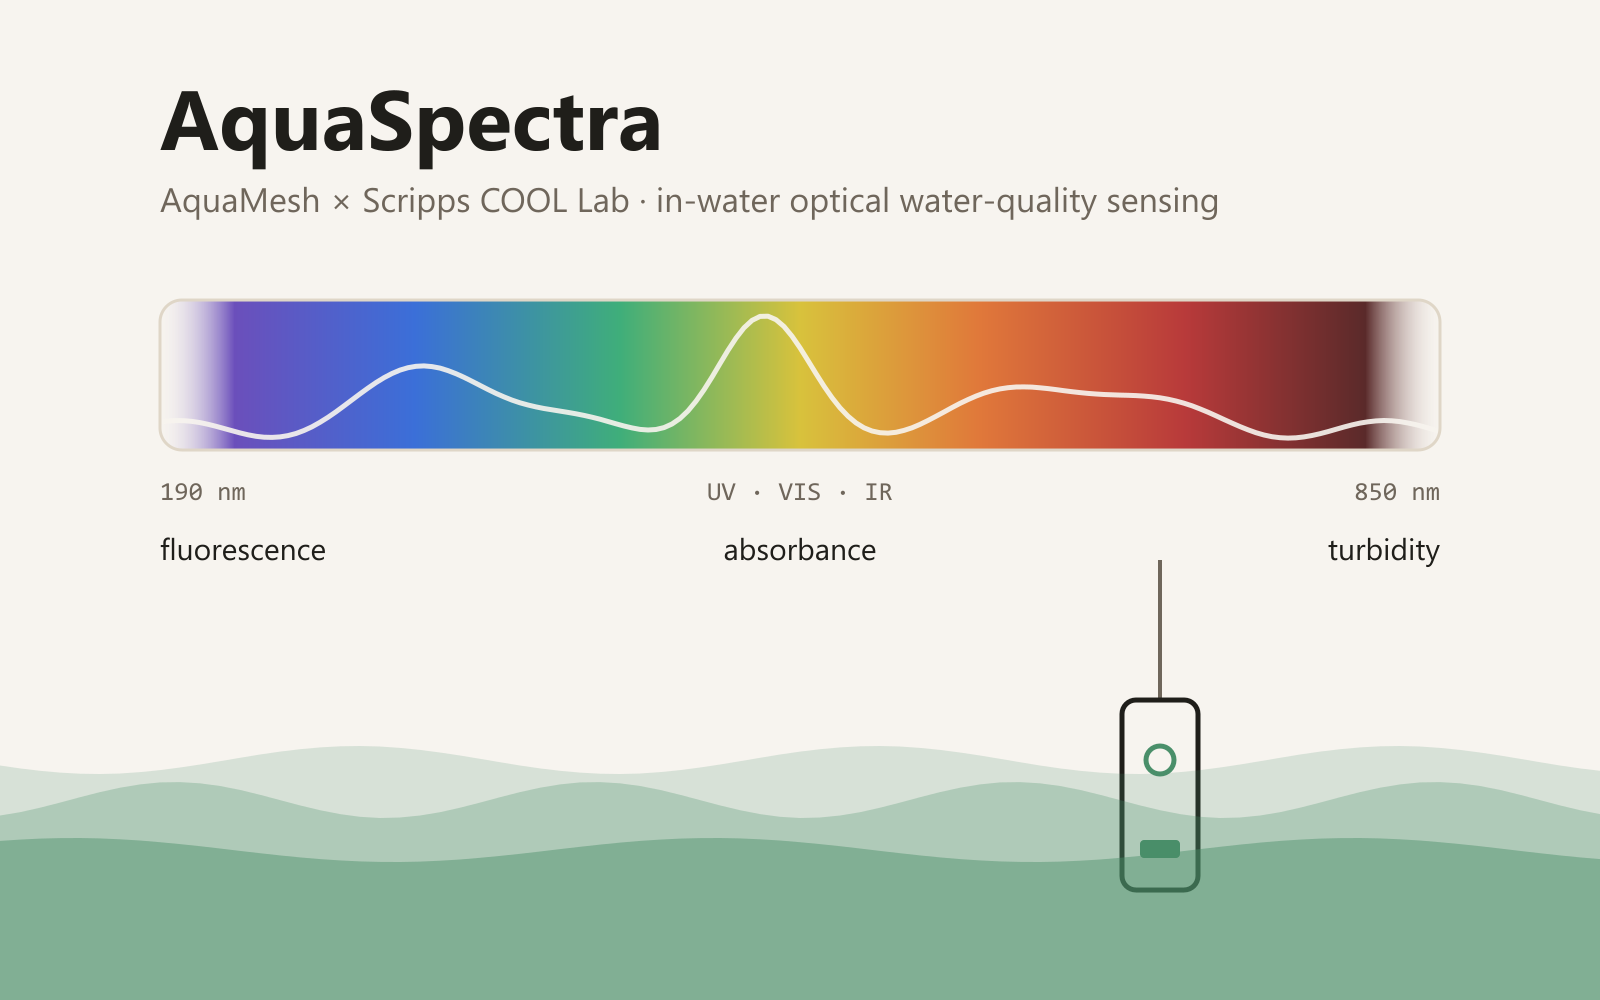
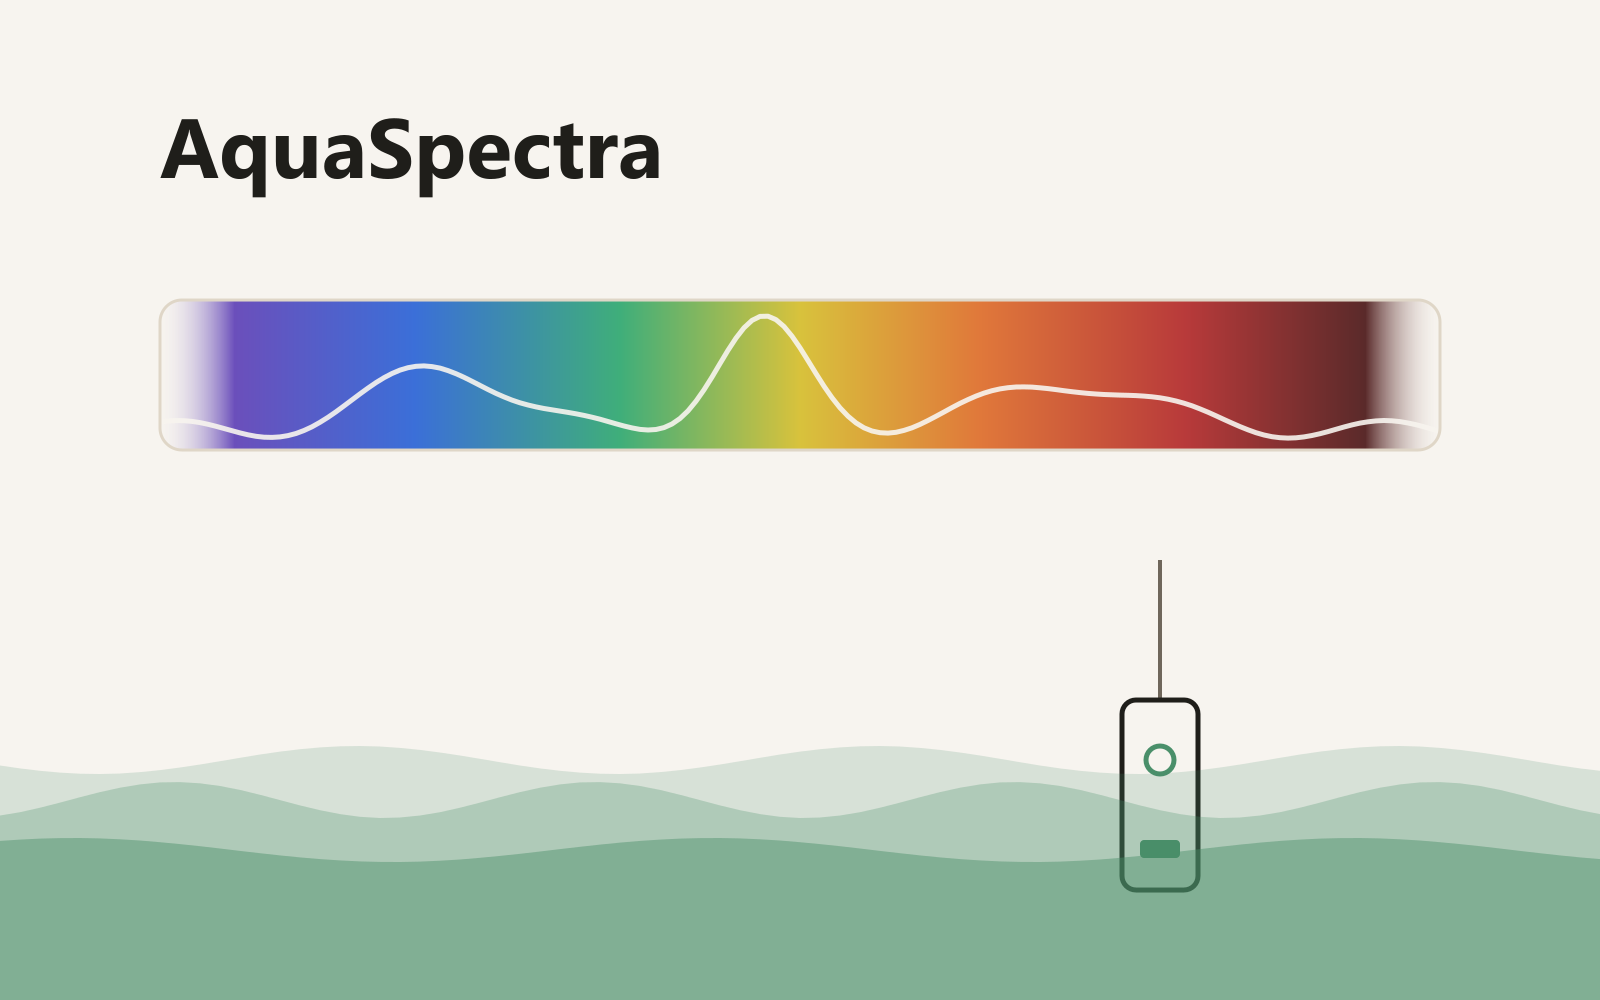
Say only what AquaMesh publishes about AquaSpectra
The AquaMesh work is under an NDA. AquaMesh's redesigned site now says the
first AquaSpectra was built for Scripps Institution of Oceanography in 2025,
and no longer names the lab partner or what the sensor measures. So the CV
bullet, the homepage summary and the project page say only that, plus my part
of the work, and the cover drops the lab's name, the spectral range and the
measurement labels. The CV bullet is still two lines, so the pages break where
they did.

Claude-Session: https://claude.ai/code/session_01YUrKJg3nvNgR4BL3B9MKQw

diff --git a/_resumes/_cv.tex b/_resumes/_cv.tex
@@ -44,7 +44,7 @@
       {AquaMesh}{La Jolla, CA}
       {Student Researcher}{Sep 2026 -- Present}
       \resumeItemListStart
-        \resumeItem{Collaborate with AquaMesh and the Scripps COOL Lab to ready AquaSpectra, an in-water optical sensor for nitrate, chlorophyll, fluorescent dissolved organic matter and turbidity, for research use.}
+        \resumeItem{Work on the software, calibration and tuning of AquaSpectra, AquaMesh's in-water optical sensor first built for Scripps Institution of Oceanography, to ready it for research use.}
       \resumeItemListEnd
 
     \resumeSubheading

diff --git a/src/content/projects/aquaspectra.md b/src/content/projects/aquaspectra.md
@@ -1,11 +1,11 @@
 ---
 title: "AquaSpectra"
-summary: "Getting AquaMesh's in-water optical sensor ready for research use with the Scripps COOL Lab: its software, calibration and tuning."
+summary: "Getting AquaMesh's in-water optical sensor ready for research use: its software, calibration and tuning."
 image: /assets/images/projects/aquaspectra/cover.png
 date: 2026-09-01
 cv: role/aquamesh/aquaspectra
 category: research
-role: "Student researcher, with AquaMesh and the Scripps COOL Lab"
+role: "Student researcher, AquaMesh"
 links:
     - { label: AquaSpectra probe, href: "https://aquamesh.ai/#aquaspectra" }
 ---
@@ -14,8 +14,8 @@ links:
 
 ## The project
 
-[AquaMesh](https://aquamesh.ai/) is a La Jolla company that makes optical water-quality sensors for coastal and industrial water. Its in-water probe, [AquaSpectra](https://aquamesh.ai/#aquaspectra), puts a UV/visible spectrometer, a fluorometer and a turbidity sensor in one housing, so a single instrument can measure things like nitrate, chlorophyll, dissolved organic matter (fDOM) and turbidity. AquaMesh is validating it with the [Coastal Ocean Observation Lab (COOL Lab)](https://coollab.ucsd.edu/) at Scripps Institution of Oceanography, on the Scripps Pier, which gets constant waves, changing salinity and a lot of biofouling.
+[AquaMesh](https://aquamesh.ai/company.html) started as sensor research at UC San Diego and now makes sensors and software for industrial water. Its first [AquaSpectra](https://aquamesh.ai/#aquaspectra) sensor was built in 2025 for Scripps Institution of Oceanography: a broad-spectrum optical instrument that reads many things about the water from one rugged device.
 
 ## My part
 
-I'm on a research project between AquaMesh and the COOL Lab to get the sensor ready for research use. That means the remaining software interface, the calibration workflow and tuning the sensor across marine conditions. Day to day, I review the probe and hub firmware and the front-end software, run calibration and test workflows, look at how the sensor behaves, and write up what I find and what I'd change.
+I'm helping AquaMesh get the sensor ready for research use. That means the remaining software interface, the calibration workflow and tuning the sensor across marine conditions. Day to day, I review the probe and hub firmware and the front-end software, run calibration and test workflows, look at how the sensor behaves, and write up what I find and what I'd change.
